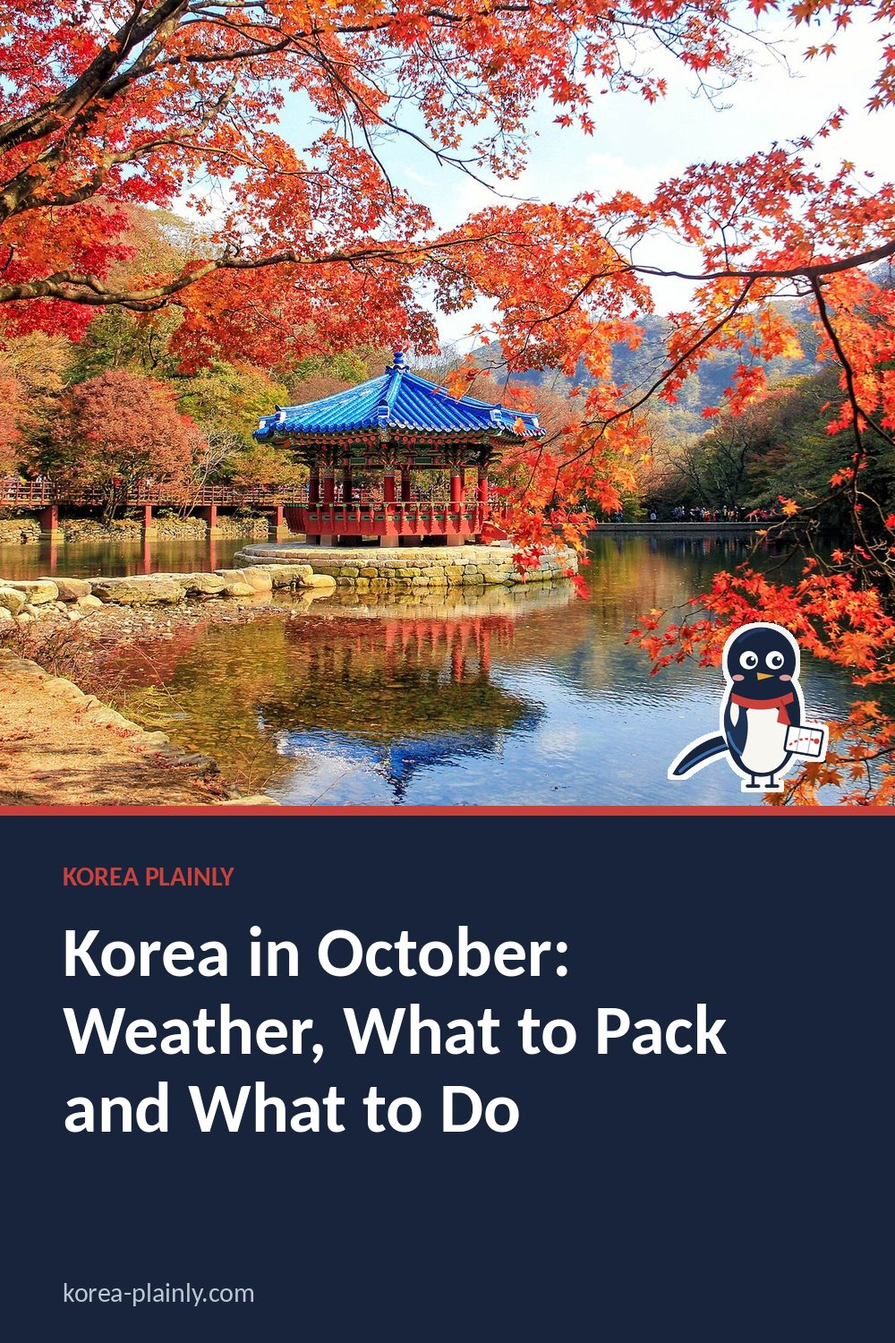
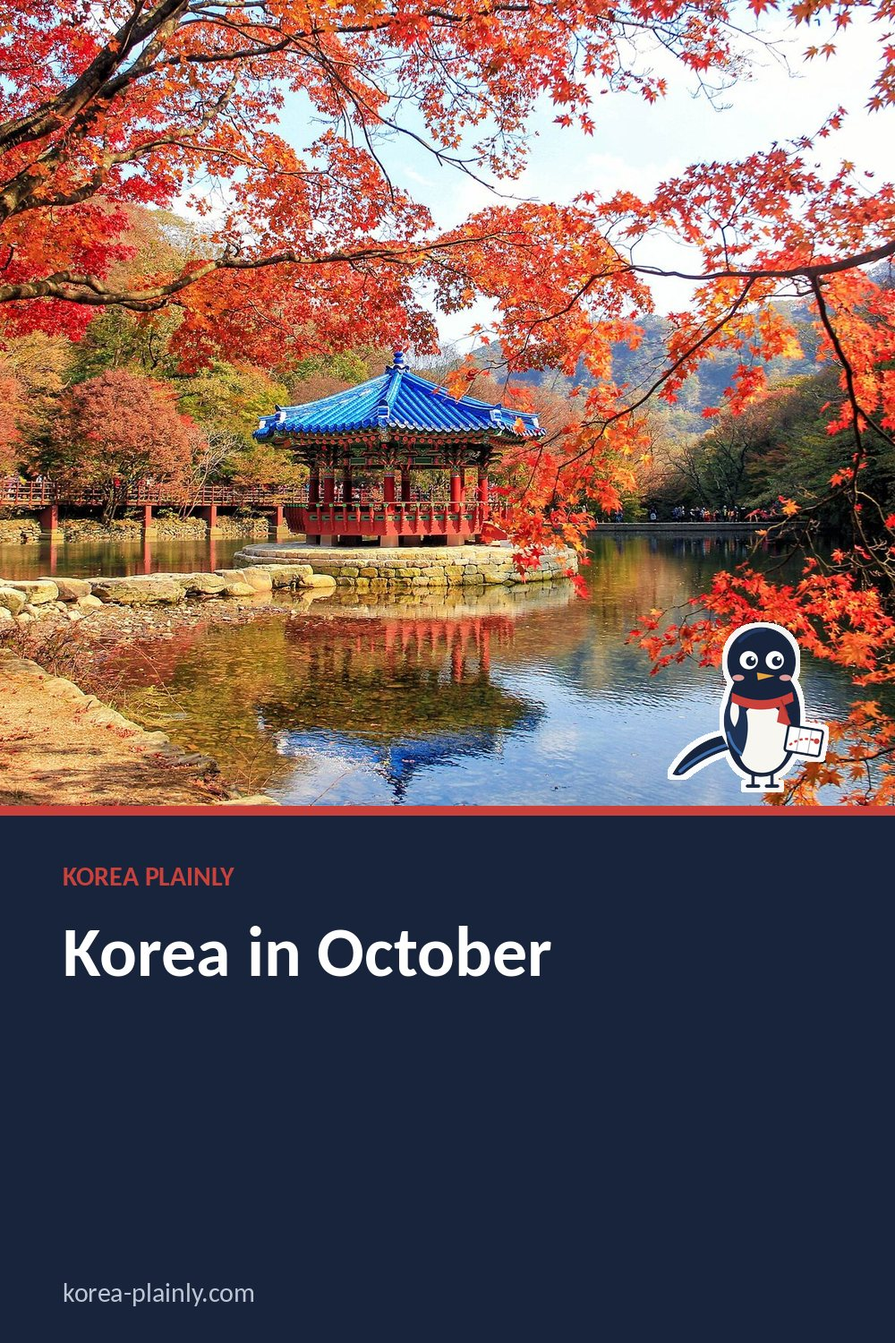
October guide: retitle for 'seoul in october weather' and rewrite with Seoul/Busan/Jeju averages, packing by week and busy dates; Jeonju day trip: Suseo trains and Korail+ after the 2026 merger; queue nightlife and Seoraksan hikes topics
Claude-Session: https://claude.ai/code/session_01T9JwU3Uh3Nbpdv7oAKcX3P

Changed region(s): [[0.062, 0.7053, 0.806, 0.8587]]

diff --git a/korea-in-october.html b/korea-in-october.html
@@ -11,11 +11,11 @@
 >
 
 <link rel="stylesheet" href="style.css?v=20261015-1">
-<title>Korea in October: Weather, What to Pack and What to Do</title>
+<title>Korea in October: Seoul, Busan and Jeju Weather and What to Pack</title>
 
 <meta
   name="description"
-  content="Visiting Korea in October: crisp autumn weather, the first autumn leaves, the film festival in Busan, fireworks in Seoul, lantern and mask festivals, and public holidays."
+  content="Seoul, Busan and Jeju weather in October, with average temperatures, what to pack, when the autumn leaves turn, festivals and busy holiday dates."
 >
 <link
   rel="canonical"
@@ -29,12 +29,12 @@
 
 <meta
   property="og:title"
-  content="Korea in October: Weather, What to Pack and What to Do"
+  content="Korea in October: Seoul, Busan and Jeju Weather and What to Pack"
 >
 
 <meta
   property="og:description"
-  content="Visiting Korea in October: crisp autumn weather, the first autumn leaves, the film festival in Busan, fireworks in Seoul, lantern and mask festivals, and public holidays."
+  content="Seoul, Busan and Jeju weather in October, with average temperatures, what to pack, when the autumn leaves turn, festivals and busy holiday dates."
 >
 
 <meta
@@ -59,12 +59,12 @@
 
 <meta
   name="twitter:title"
-  content="Korea in October: Weather, What to Pack and What to Do"
+  content="Korea in October: Seoul, Busan and Jeju Weather and What to Pack"
 >
 
 <meta
   name="twitter:description"
-  content="Visiting Korea in October: crisp autumn weather, the first autumn leaves, the film festival in Busan, fireworks in Seoul, lantern and mask festivals, and public holidays."
+  content="Seoul, Busan and Jeju weather in October, with average temperatures, what to pack, when the autumn leaves turn, festivals and busy holiday dates."
 >
 
 <meta
@@ -247,9 +247,9 @@ footer {
 <link rel="stylesheet" href="article.css?v=3">
 <link rel="stylesheet" href="https://fonts.googleapis.com/css2?family=DM+Sans:wght@400;500;600;700&family=Playfair+Display:ital,wght@0,600;1,600&display=swap">
 <link rel="icon" href="/favicon.svg" type="image/svg+xml">
-<script type="application/ld+json" id="kp-faq-ld">{"@context": "https://schema.org", "@type": "FAQPage", "mainEntity": [{"@type": "Question", "name": "Is October a good time to visit Korea?", "acceptedAnswer": {"@type": "Answer", "text": "Yes, it is one of the best: clear, dry and comfortable, with autumn leaves and many festivals. Book hotels early because it is popular."}}, {"@type": "Question", "name": "When do the autumn leaves turn in Korea?", "acceptedAnswer": {"@type": "Answer", "text": "From early to mid October in the high mountains, and from late October into November in cities and parks."}}, {"@type": "Question", "name": "What should I wear in Korea in October?", "acceptedAnswer": {"@type": "Answer", "text": "Layers: a T-shirt with a light jacket early in the month, and a warmer jacket or sweater towards the end."}}]}</script>
-<script type="application/ld+json" id="kp-article-ld">{"@context": "https://schema.org", "@type": "Article", "headline": "Korea in October: Weather, What to Pack and What to Do", "description": "Visiting Korea in October: crisp autumn weather, the first autumn leaves, the film festival in Busan, fireworks in Seoul, lantern and mask festivals, and public holidays.", "image": ["https://korea-plainly.com/photo-korea-in-october.jpg"], "datePublished": "2026-10-16", "dateModified": "2026-10-17", "author": {"@type": "Person", "name": "Jungsuk Kim", "url": "https://korea-plainly.com/about.html#author"}, "publisher": {"@type": "Organization", "name": "Korea Plainly", "url": "https://korea-plainly.com/"}, "mainEntityOfPage": "https://korea-plainly.com/korea-in-october.html"}</script>
-<script type="application/ld+json" id="kp-breadcrumb-ld">{"@context": "https://schema.org", "@type": "BreadcrumbList", "itemListElement": [{"@type": "ListItem", "position": 1, "name": "Home", "item": "https://korea-plainly.com/"}, {"@type": "ListItem", "position": 2, "name": "Guides", "item": "https://korea-plainly.com/guides.html"}, {"@type": "ListItem", "position": 3, "name": "Travel Basics", "item": "https://korea-plainly.com/guides.html?category=travel"}, {"@type": "ListItem", "position": 4, "name": "Korea in October: Weather, What to Pack and What to Do", "item": "https://korea-plainly.com/korea-in-october.html"}]}</script>
+<script type="application/ld+json" id="kp-faq-ld">{"@context": "https://schema.org", "@type": "FAQPage", "mainEntity": [{"@type": "Question", "name": "What is the weather like in Seoul in October?", "acceptedAnswer": {"@type": "Answer", "text": "Mild and dry. Average highs are about 20°C and lows about 10°C, with warmer afternoons early in the month and cold mornings by the end. Rain is light, around 50 mm for the whole month."}}, {"@type": "Question", "name": "Is October a good time to visit Korea?", "acceptedAnswer": {"@type": "Answer", "text": "Yes, it is one of the best months: clear, dry and comfortable, with autumn leaves and many festivals. Book hotels and trains early, because it is also one of the busiest months."}}, {"@type": "Question", "name": "What should I wear in Korea in October?", "acceptedAnswer": {"@type": "Answer", "text": "Layers. Early in the month a T-shirt with a light jacket is enough; by late October you will want a sweater and a warmer jacket, especially in the evening or in the mountains."}}]}</script>
+<script type="application/ld+json" id="kp-article-ld">{"@context": "https://schema.org", "@type": "Article", "headline": "Korea in October: Seoul, Busan and Jeju Weather and What to Pack", "description": "Seoul, Busan and Jeju weather in October, with average temperatures, what to pack, when the autumn leaves turn, festivals and busy holiday dates.", "image": ["https://korea-plainly.com/photo-korea-in-october.jpg"], "datePublished": "2026-10-16", "dateModified": "2026-10-25", "author": {"@type": "Person", "name": "Jungsuk Kim", "url": "https://korea-plainly.com/about.html#author"}, "publisher": {"@type": "Organization", "name": "Korea Plainly", "url": "https://korea-plainly.com/"}, "mainEntityOfPage": "https://korea-plainly.com/korea-in-october.html"}</script>
+<script type="application/ld+json" id="kp-breadcrumb-ld">{"@context": "https://schema.org", "@type": "BreadcrumbList", "itemListElement": [{"@type": "ListItem", "position": 1, "name": "Home", "item": "https://korea-plainly.com/"}, {"@type": "ListItem", "position": 2, "name": "Guides", "item": "https://korea-plainly.com/guides.html"}, {"@type": "ListItem", "position": 3, "name": "Travel Basics", "item": "https://korea-plainly.com/guides.html?category=travel"}, {"@type": "ListItem", "position": 4, "name": "Korea in October: Seoul, Busan and Jeju Weather and What to Pack", "item": "https://korea-plainly.com/korea-in-october.html"}]}</script>
 <meta property="article:published_time" content="2026-10-16">
 </head>
 
@@ -280,12 +280,12 @@ TRAVEL BASICS · SEASONAL
 </div>
 
 <h1>
-Korea in October: Weather, What to Pack and What to Do
+Korea in October: Seoul, Busan and Jeju Weather and What to Pack
 </h1>
-<p class="kp-date" data-kp="date">By <a href="about.html#author">Jungsuk Kim</a>, Korea Plainly · Published <time datetime="2026-10-16">16 October 2026</time> · Updated <time datetime="2026-10-17">17 October 2026</time></p>
+<p class="kp-date" data-kp="date">By <a href="about.html#author">Jungsuk Kim</a>, Korea Plainly · Published <time datetime="2026-10-16">16 October 2026</time> · Updated <time datetime="2026-10-25">25 October 2026</time></p>
 
 <p class="dek">
-Visiting Korea in October: crisp autumn weather, the first autumn leaves, the film festival in Busan, fireworks in Seoul, lantern and mask festivals, and public holidays.
+Seoul, Busan and Jeju weather in October, with average temperatures, what to pack, when the autumn leaves turn, festivals and busy holiday dates.
 </p>
 
 <img
@@ -297,48 +297,59 @@ Visiting Korea in October: crisp autumn weather, the first autumn leaves, the fi
 
 <article>
 
-<p>October is often called the <a href="best-time-to-visit-korea.html">best month to visit Korea</a>. The summer heat and rain are gone, the skies are usually clear and blue, the air is fresh, and the autumn leaves begin to turn. It is also a month full of festivals. The catch is that everyone knows it, so popular places and hotels are busy, especially at weekends.</p>
+<p>October is often called the <a href="best-time-to-visit-korea.html">best month to visit Korea</a>. The summer heat and the rainy season are long gone, skies are usually clear, the air is crisp and the autumn leaves begin to turn. The catch is that everyone knows it: hotels, palaces and mountain trails are busy, especially at weekends. This guide covers Seoul, Busan and Jeju weather in October, what to pack, and how to plan around the crowds.</p>
 
 <nav class="kp-toc" data-kp="toc" aria-label="On this page"><p>On this page</p><ol><li><a href="#what-the-weather-is-like">What the weather is like</a></li><li><a href="#what-to-pack">What to pack</a></li><li><a href="#things-to-do-in-october">Things to do in October</a></li><li><a href="#holidays-and-busy-dates">Holidays and busy dates</a></li><li><a href="#faq">FAQ</a></li></ol></nav>
 <h2 id="what-the-weather-is-like">What the weather is like</h2>
-<p>Early October in Seoul is warm in the afternoon and cool in the morning; by the end of the month the mornings are properly chilly. It is one of the driest and sunniest months of the year. Busan and Jeju stay a few degrees warmer. In the mountains it is noticeably colder, especially at the top. See our <a href="korea-weather-by-season.html">seasons and weather guide</a>.</p>
+<p>October is the month when Korea swaps summer for autumn. In the first week, afternoons can still feel like late summer; by the last week, mornings are cold enough for a proper jacket. It is one of the driest and sunniest months of the year, so a rained-off day is unusual, though a passing shower or a late typhoon on the south coast is not impossible early in the month.</p>
+<h3>Seoul in October</h3>
+<p>Seoul averages daytime highs of about 20°C and lows of about 10 to 11°C across the month, but the spread is wide: early October highs are often in the low to mid twenties, while late October can bring mornings of 5°C or below. Rainfall is low, about 50 mm in the whole month, on roughly five rainy days. The big gap between the warm afternoon and the cold evening catches many visitors out, so plan your clothes around the evening, not the midday sun.</p>
+<h3>Busan in October</h3>
+<p>Busan is a few degrees milder than Seoul, with average highs of around 22°C and lows of around 15°C. The sea is still relatively warm, so the coast feels pleasant for walks along Haeundae, Gwangalli and the Haeparang Trail, though it is too cool for most people to swim. Our <a href="things-to-do-in-busan.html">things to do in Busan</a> guide has ideas for a few days there.</p>
+<h3>Jeju in October</h3>
+<p>Jeju is similar to Busan, with highs of about 22°C and lows of about 16°C, but it is windier and the weather changes faster, especially on Hallasan, where the summit is far colder than the coast. October is a good month for Jeju's Olle walking trails and the silver eulalia grass on the oreum (small volcanic hills), which turns the slopes pale and feathery. See our <a href="jeju-3-day-itinerary.html">Jeju itinerary</a>.</p>
+<p>These figures are long-term averages (1991–2020) from the Korea Meteorological Administration; real weather varies from year to year, so check the forecast in the week before you fly. The mountains are always colder than the cities: on high peaks such as Seoraksan, the first frost can arrive in mid October. For the rest of the year, see our <a href="korea-weather-by-season.html">seasons and weather guide</a>.</p>
 
 <h2 id="what-to-pack">What to pack</h2>
+<p>Pack for two seasons in one day. A typical October day in Seoul starts cool, warms up by lunchtime and turns chilly again after sunset, which comes at around six o'clock and earlier as the month goes on.</p>
 <ul>
-<li><strong>Layers:</strong> T-shirts and a light jacket early in the month, a warmer jacket or sweater by late October.</li>
-<li><strong>Good walking or hiking shoes</strong> if you want to see the leaves in the mountains.</li>
-<li><strong>Sunglasses and sunscreen</strong> for those clear days.</li>
+<li><strong>Early October:</strong> T-shirts or light shirts, a thin long-sleeved layer and a light jacket or cardigan for the evening.</li>
+<li><strong>Late October:</strong> a sweater or fleece and a warmer jacket. A light down jacket that packs small is useful if you plan early starts or evenings by the Han River.</li>
+<li><strong>Good walking shoes:</strong> palaces, markets and hiking trails all mean a lot of walking. Proper hiking shoes are worth it for mountain trails, which are steep, rocky and slippery with fallen leaves.</li>
+<li><strong>Sunglasses and sunscreen:</strong> clear autumn days are bright, especially on a hike.</li>
+<li><strong>A small umbrella:</strong> rain is rare, but convenience stores sell cheap ones if you are caught out.</li>
+<li><strong>Lip balm and hand cream:</strong> the air gets drier as autumn goes on.</li>
 </ul>
-<p>Our <a href="korea-packing-list.html">packing list</a> has a full autumn checklist.</p>
+<p>Our interactive <a href="korea-packing-list.html">Korea packing list</a> has a full autumn checklist you can tick off.</p>
 
 <h2 id="things-to-do-in-october">Things to do in October</h2>
-<h3>The first autumn leaves</h3>
-<p>The colours start at the top of the high mountains, such as Seoraksan, in early to mid October, and move south and downhill from there. Most cities and parks are at their best from late October into November. See our <a href="korea-autumn-foliage-2026.html">autumn leaves guide</a>.</p>
-<h3>Busan International Film Festival</h3>
-<p>Asia's biggest film festival is held in Busan in early to mid October, with screenings, outdoor events and stars on the red carpet around Centum City and Haeundae. See our <a href="busan.html">Busan guide</a>.</p>
-<h3>Seoul fireworks</h3>
-<p>The Seoul International Fireworks Festival lights up the Han River at Yeouido on a Saturday evening in early autumn, and draws enormous crowds. People claim their spot on the riverbank in the afternoon.</p>
-<h3>Lantern and mask festivals</h3>
-<p>The Namgang Yudeung lantern festival in Jinju fills the river with lanterns in October, and the Andong mask dance festival takes place around late September to early October. Our <a href="korea-festivals.html">festival calendar</a> lists this year's dates.</p>
-<h3>Hiking and day trips</h3>
-<p>With cool, clear weather, October is the best month for hiking and day trips: Bukhansan near Seoul, Nami Island, Gyeongju and Jeju's trails are all at their best. See our <a href="korea-10-day-itinerary.html">10-day itinerary</a> for ideas.</p>
+<h3>Catch the first autumn leaves</h3>
+<p>The colours start at the top of the high mountains, such as Seoraksan, around the end of September and the first half of October, then move south and downhill. Most city parks, palaces and temples are at their best from late October into early November. If you visit early in the month, head for the mountains; if you visit late, Seoul's palaces and Namsan are lovely. Our <a href="korea-autumn-foliage-2026.html">autumn leaves guide</a> has the usual timing for each area.</p>
+<h3>Go hiking or take a day trip</h3>
+<p>Cool, dry weather makes October the most comfortable month for hiking. Bukhansan is reachable by subway and bus from central Seoul; Nami Island, Gyeongju and Jeonju make easy day or overnight trips. Start early: famous trails and the trains to them fill up at weekends. Our guide to <a href="jeonju-hanok-village-from-seoul.html">Jeonju Hanok Village from Seoul</a> covers one easy trip.</p>
+<h3>Festivals</h3>
+<p>October is festival season. The Busan International Film Festival usually runs in early to mid October around Centum City and Haeundae. The Seoul International Fireworks Festival lights up the Han River at Yeouido on a Saturday evening in early autumn, and people claim their spot on the riverbank by mid-afternoon. The Jinju Namgang lantern festival fills the river with lanterns, and many towns hold food and harvest festivals. Dates change every year, so check our <a href="korea-festivals.html">Korea festival calendar</a> for this year's dates.</p>
+<h3>Evenings outdoors</h3>
+<p>Pleasant evenings are made for walking along Cheonggyecheon, picnicking at Han River parks (order fried chicken to the riverbank like the locals) or watching the city lights. Our <a href="seoul-night-views.html">Seoul night views</a> guide lists the best spots.</p>
 
 <h2 id="holidays-and-busy-dates">Holidays and busy dates</h2>
 <ul>
-<li><strong>3 October:</strong> National Foundation Day, a public holiday.</li>
-<li><strong>9 October:</strong> Hangul Day, celebrating the Korean alphabet. Try our <a href="learn-hangul.html">learn Hangul page</a> before you go.</li>
-<li><strong>Chuseok</strong>, the harvest holiday, falls in late September or early October depending on the lunar calendar. Trains and roads are packed and some shops close for a day or two.</li>
-<li><strong>Weekends</strong> in October are among the busiest of the year at famous spots, so go on weekdays if you can.</li>
+<li><strong>3 October, National Foundation Day:</strong> a public holiday. Shops and most sights stay open, but expect crowds.</li>
+<li><strong>9 October, Hangul Day:</strong> a public holiday celebrating the Korean alphabet. Try our <a href="learn-hangul.html">learn Hangul page</a> before you go.</li>
+<li><strong>Chuseok:</strong> the harvest holiday follows the lunar calendar and falls in September or early October (in 2026 it was in late September). In a year when it lands in October, trains and roads are packed for several days, so book transport early. Big sights and shopping areas in Seoul mostly stay open, but some family-run restaurants and market stalls close.</li>
+<li><strong>When a holiday falls next to a weekend,</strong> Koreans travel too, and KTX seats, Jeju flights and hotels sell out. Check the calendar before you book.</li>
+<li><strong>Late October weekends:</strong> peak leaf-viewing season. Visit famous spots on weekdays, early in the morning, if you can.</li>
+<li><strong>Halloween weekend:</strong> busy nightlife areas such as Hongdae and Itaewon get crowded, and police now manage crowds closely. Avoid the narrowest alleys at peak hours.</li>
 </ul>
 
 <section class="faq">
 <h2 id="faq">FAQ</h2>
+<h3>What is the weather like in Seoul in October?</h3>
+<p>Mild and dry. Average highs are about 20°C and lows about 10°C, with warmer afternoons early in the month and cold mornings by the end. Rain is light, around 50 mm for the whole month.</p>
 <h3>Is October a good time to visit Korea?</h3>
-<p>Yes, it is one of the best: clear, dry and comfortable, with autumn leaves and many festivals. Book hotels early because it is popular.</p>
-<h3>When do the autumn leaves turn in Korea?</h3>
-<p>From early to mid October in the high mountains, and from late October into November in cities and parks.</p>
+<p>Yes, it is one of the best months: clear, dry and comfortable, with autumn leaves and many festivals. Book hotels and trains early, because it is also one of the busiest months.</p>
 <h3>What should I wear in Korea in October?</h3>
-<p>Layers: a T-shirt with a light jacket early in the month, and a warmer jacket or sweater towards the end.</p>
+<p>Layers. Early in the month a T-shirt with a light jacket is enough; by late October you will want a sweater and a warmer jacket, especially in the evening or in the mountains.</p>
 </section>
 
 <a class="back" href="guides.html">← Back to all guides</a>

diff --git a/jeonju-hanok-village-from-seoul.html b/jeonju-hanok-village-from-seoul.html
@@ -245,12 +245,12 @@ footer {
 <script async src="https://pagead2.googlesyndication.com/pagead/js/adsbygoogle.js?client=ca-pub-7379462117232471" crossorigin="anonymous"></script>
 <style>.kp-date{font-size:13px;color:#62635f;margin:-6px 0 22px}</style>
 <script type="application/ld+json" id="kp-faq-ld">{"@context": "https://schema.org", "@type": "FAQPage", "mainEntity": [{"@type": "Question", "name": "Is Jeonju Hanok Village a realistic day trip from Seoul?", "acceptedAnswer": {"@type": "Answer", "text": "Yes, but expect a long day because you need to travel to Jeonju and back as well as visit the village. Start early, check return schedules before you go, and leave enough time to reach your departure point. If you want a slower visit, staying overnight may be more comfortable."}}, {"@type": "Question", "name": "Should I take a train or a bus from Seoul?", "acceptedAnswer": {"@type": "Answer", "text": "Both can be practical options. Compare the departure point, journey time, transfers, and return schedule for your travel date rather than choosing by vehicle type alone. Check current timetables and ticket availability, and consider booking ahead if you are travelling on a busy weekend or holiday."}}, {"@type": "Question", "name": "How do I get from Jeonju Station or the bus terminal to the village?", "acceptedAnswer": {"@type": "Answer", "text": "Plan for a separate local journey after arriving in Jeonju; the station and bus terminal are not inside the Hanok Village. You can check local bus routes or take a taxi, depending on your preference and arrival point. Use a current map to confirm the route and allow extra time."}}]}</script>
-<script type="application/ld+json" id="kp-article-ld">{"@context": "https://schema.org", "@type": "Article", "headline": "Jeonju Hanok Village from Seoul: A Simple Day Trip by Train or Bus", "description": "Plan an easy day trip from Seoul to Jeonju Hanok Village, with practical train and bus options, local transport tips, and ideas for what to see and eat.", "image": ["https://korea-plainly.com/photo-jeonju-hanok-village-from-seoul.jpg"], "datePublished": "2026-10-25", "dateModified": "2026-10-25", "author": {"@type": "Person", "name": "Jungsuk Kim", "url": "https://korea-plainly.com/about.html#author"}, "publisher": {"@type": "Organization", "name": "Korea Plainly", "url": "https://korea-plainly.com/"}, "mainEntityOfPage": "https://korea-plainly.com/jeonju-hanok-village-from-seoul.html"}</script>
-<script type="application/ld+json" id="kp-breadcrumb-ld">{"@context": "https://schema.org", "@type": "BreadcrumbList", "itemListElement": [{"@type": "ListItem", "position": 1, "name": "Home", "item": "https://korea-plainly.com/"}, {"@type": "ListItem", "position": 2, "name": "Guides", "item": "https://korea-plainly.com/guides.html"}, {"@type": "ListItem", "position": 3, "name": "Travel Basics", "item": "https://korea-plainly.com/guides.html?category=travel"}, {"@type": "ListItem", "position": 4, "name": "Jeonju Hanok Village from Seoul: A Simple Day Trip by Train or Bus", "item": "https://korea-plainly.com/jeonju-hanok-village-from-seoul.html"}]}</script>
-<meta property="article:published_time" content="2026-10-25">
 <link rel="stylesheet" href="article.css?v=3">
 <link rel="stylesheet" href="https://fonts.googleapis.com/css2?family=DM+Sans:wght@400;500;600;700&family=Playfair+Display:ital,wght@0,600;1,600&display=swap">
 <link rel="icon" href="/favicon.svg" type="image/svg+xml">
+<script type="application/ld+json" id="kp-article-ld">{"@context": "https://schema.org", "@type": "Article", "headline": "Jeonju Hanok Village from Seoul: A Simple Day Trip by Train or Bus", "description": "Plan an easy day trip from Seoul to Jeonju Hanok Village, with practical train and bus options, local transport tips, and ideas for what to see and eat.", "image": ["https://korea-plainly.com/photo-jeonju-hanok-village-from-seoul.jpg"], "datePublished": "2026-10-25", "dateModified": "2026-10-25", "author": {"@type": "Person", "name": "Jungsuk Kim", "url": "https://korea-plainly.com/about.html#author"}, "publisher": {"@type": "Organization", "name": "Korea Plainly", "url": "https://korea-plainly.com/"}, "mainEntityOfPage": "https://korea-plainly.com/jeonju-hanok-village-from-seoul.html"}</script>
+<script type="application/ld+json" id="kp-breadcrumb-ld">{"@context": "https://schema.org", "@type": "BreadcrumbList", "itemListElement": [{"@type": "ListItem", "position": 1, "name": "Home", "item": "https://korea-plainly.com/"}, {"@type": "ListItem", "position": 2, "name": "Guides", "item": "https://korea-plainly.com/guides.html"}, {"@type": "ListItem", "position": 3, "name": "Travel Basics", "item": "https://korea-plainly.com/guides.html?category=travel"}, {"@type": "ListItem", "position": 4, "name": "Jeonju Hanok Village from Seoul: A Simple Day Trip by Train or Bus", "item": "https://korea-plainly.com/jeonju-hanok-village-from-seoul.html"}]}</script>
+<meta property="article:published_time" content="2026-10-25">
 </head>
 
 <body class="kp-article">
@@ -301,8 +301,8 @@ Plan an easy day trip from Seoul to Jeonju Hanok Village, with practical train a
 <nav class="kp-toc" data-kp="toc" aria-label="On this page"><p>On this page</p><ol><li><a href="#choose-between-train-and-bus">Choose between train and bus</a></li><li><a href="#getting-from-the-station-to-the-village">Getting from the station to the village</a></li><li><a href="#a-simple-day-trip-route">A simple day-trip route</a></li><li><a href="#what-to-eat-in-jeonju">What to eat in Jeonju</a></li><li><a href="#make-the-return-journey-easy">Make the return journey easy</a></li><li><a href="#frequently-asked-questions">Frequently Asked Questions</a></li></ol></nav>
 <h2 id="choose-between-train-and-bus">Choose between train and bus</h2>
 <h3>KTX from Yongsan Station</h3>
-<p>KTX trains to Jeonju leave from Yongsan Station, not Seoul Station. Reach Yongsan on Seoul Metro Line 1, or use the station’s connected shopping complex as a landmark. The train journey is usually around 1 hour 40 minutes to 2 hours, depending on the service. A one-way standard-class ticket is roughly ₩34,000–₩40,000 (2026).</p>
-<p>Book through KorailTalk, Korail’s app, or its official website, letskorail.com. Reserve a return seat in advance for weekends and public holidays, when popular departures can fill up. Check current schedules and fares before you travel.</p>
+<p>Most KTX trains to Jeonju leave from Yongsan Station, not Seoul Station; reach Yongsan on Seoul Metro Line 1 or the Gyeongui–Jungang Line. Some trains also run from Suseo Station in south-east Seoul, near Gangnam: these were the separate SRT service until the two operators merged in September 2026, so you can now search both stations in one place (see our <a href="ktx-train-guide.html">KTX guide</a>). The train journey is usually around 1 hour 40 minutes to 2 hours, depending on the service. A one-way standard-class ticket is roughly ₩34,000–₩40,000 (2026).</p>
+<p>Book through Korail’s app (renewed as Korail+ in 2026) or its official English website. Reserve a return seat in advance for weekends and public holidays, when popular departures can fill up. Check current schedules and fares before you travel.</p>
 <h3>Express bus from Central City</h3>
 <p>Express buses to Jeonju leave from Central City Terminal, beside Seoul’s Express Bus Terminal. The terminal is connected to Express Bus Terminal Station on subway Lines 3, 7, and 9. The ride commonly takes around 2.5 to 3.5 hours, but traffic can make it longer. One-way fares are roughly ₩15,000–₩25,000 (2026), depending on the bus class.</p>
 <p>Look for Jeonju on the ticket screen: the Seoul service arrives at Jeonju Express Bus Terminal, not Jeonju Station. Tickets are available through Kobus or T-money GO. If your return is on a weekend evening, book it early so you are not left with a late departure.</p>

diff --git a/guides.html b/guides.html
@@ -1776,11 +1776,11 @@ TRAVEL BASICS · NEW
 </small>
 
 <h2>
-Korea in October: Weather, What to Pack and What to Do
+Korea in October: Seoul, Busan and Jeju Weather and What to Pack
 </h2>
 
 <p>
-Visiting Korea in October: crisp autumn weather, the first autumn leaves, the film festival in Busan, fireworks in Seoul, lantern and mask festivals, and public holidays.
+Seoul, Busan and Jeju weather in October, with average temperatures, what to pack, when the autumn leaves turn, festivals and busy holiday dates.
 </p>
 
 <span class="guide-arrow">
